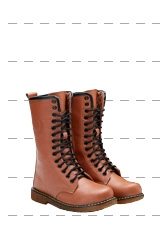
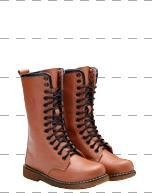
列表页面的图片替换

diff --git a/list.html b/list.html
@@ -42,7 +42,7 @@
                 <ul style="display:block">
                     <li>
                         <div class="left">
-                            <img src="images/4.webp" alt="低帮（脚踝以下）" width="84" height="119">
+                            <img src="images/4.webp" alt="低帮（脚踝以下）" width="76" width="96" onerror="this.src='images/l4.jpg'">
                         </div>
                         <div class="right">
                             <p>低帮（脚踝以下）</p>
@@ -68,7 +68,7 @@
                     </li>
                     <li>
                         <div class="left">
-                            <img src="images/5.webp" alt="高帮（膝盖以下）" width= width="84" height="119">
+                            <img src="images/5.webp" alt="高帮（膝盖以下）" width= width="76" width="96" onerror="this.src='images/l5.jpg'">
                         </div>
                         <div class="right">
                             <p>高帮（膝盖以下）</p>
@@ -94,7 +94,7 @@
                     </li>
                     <li>
                         <div class="left">
-                            <img src="images/6.webp" alt="过膝（膝盖以上）" width="84" height="119">
+                            <img src="images/6.webp" alt="过膝（膝盖以上）" width="76" width="96" onerror="this.src='images/l6.jpg'">
                         </div>
                         <div class="right">
                             <p>过膝（膝盖以上）</p>
@@ -122,7 +122,7 @@
                <ul>
                        <li>
                         <div class="left">
-                            <img src="images/1.webp" alt="低帮（脚踝以下）" width="84" height="119">
+                            <img src="images/1.webp" alt="低帮（脚踝以下）" width="76" width="96" onerror="this.src='images/l1.jpg'">
                         </div>
                         <div class="right">
                             <p>低帮（脚踝以下）</p>
@@ -148,7 +148,7 @@
                     </li>
                     <li>
                         <div class="left">
-                            <img src="images/2.webp" alt="高帮（膝盖以下）" width="84" height="119">
+                            <img src="images/2.webp" alt="高帮（膝盖以下）" width="76" width="96" onerror="this.src='images/l2.jpg'">
                         </div>
                         <div class="right">
                             <p>高帮（膝盖以下）</p>
@@ -174,7 +174,7 @@
                     </li>
                     <li>
                         <div class="left">
-                            <img src="images/3.webp" alt="过膝（膝盖以上）" width="84" height="119">
+                            <img src="images/3.webp" alt="过膝（膝盖以上）" width="76" width="96" onerror="this.src='images/l3.jpg'">
                         </div>
                         <div class="right">
                             <p>过膝（膝盖以上）</p>
@@ -202,7 +202,7 @@
                <ul>
                      <li>
                         <div class="left">
-                            <img src="images/7.webp" alt="换跟钉、加后掌" width="84" height="119">
+                            <img src="images/7.webp" alt="换跟钉、加后掌" width="76" width="96" onerror="this.src='images/l7.jpg'">
                         </div>
                         <div class="right">
                             <p>换跟钉、加后掌</p>
@@ -228,7 +228,7 @@
                     </li>
                     <li>
                         <div class="left">
-                            <img src="images/8.webp" alt="加前掌" width="84" height="119">
+                            <img src="images/8.webp" alt="加前掌" width="76" width="96" onerror="this.src='images/l8.jpg'">
                         </div>
                         <div class="right">
                             <p>加前掌</p>
@@ -254,7 +254,7 @@
                     </li>
                     <li>
                         <div class="left">
-                            <img src="images/9.webp" alt="补色、翻新" width="84" height="119">
+                            <img src="images/9.webp" alt="补色、翻新" width="76" width="96" onerror="this.src='images/l9.jpg'">
                         </div>
                         <div class="right">
                             <p>补色、翻新</p>

diff --git a/css/list.css b/css/list.css
@@ -14,7 +14,7 @@ nav a{float:left;font-size:0.6rem;width:33%;text-align:center;line-height:39px;}
 	overflow:hidden;font-size:0.3rem;color:#555;font-family:"Helvetica","微软雅黑","宋体";
 	display: -webkit-box;=webkit-box-orient:horizontal;-webkit-box-align:center;-webkit-box-pack:center;}
 .left{width:30%;height:100%;text-align:center;}
-.left img{width:1.68rem;height:2.38rem;max-width:168px;display:inline;}
+.left img{width:1.52rem;height:1.93rem;max-width:168px;display:inline;}
 .right{width:70%;}
 .right>p{margin-bottom:20px;}
 .right>dl{padding-bottom:5px;overflow:hidden;height:100%;}
